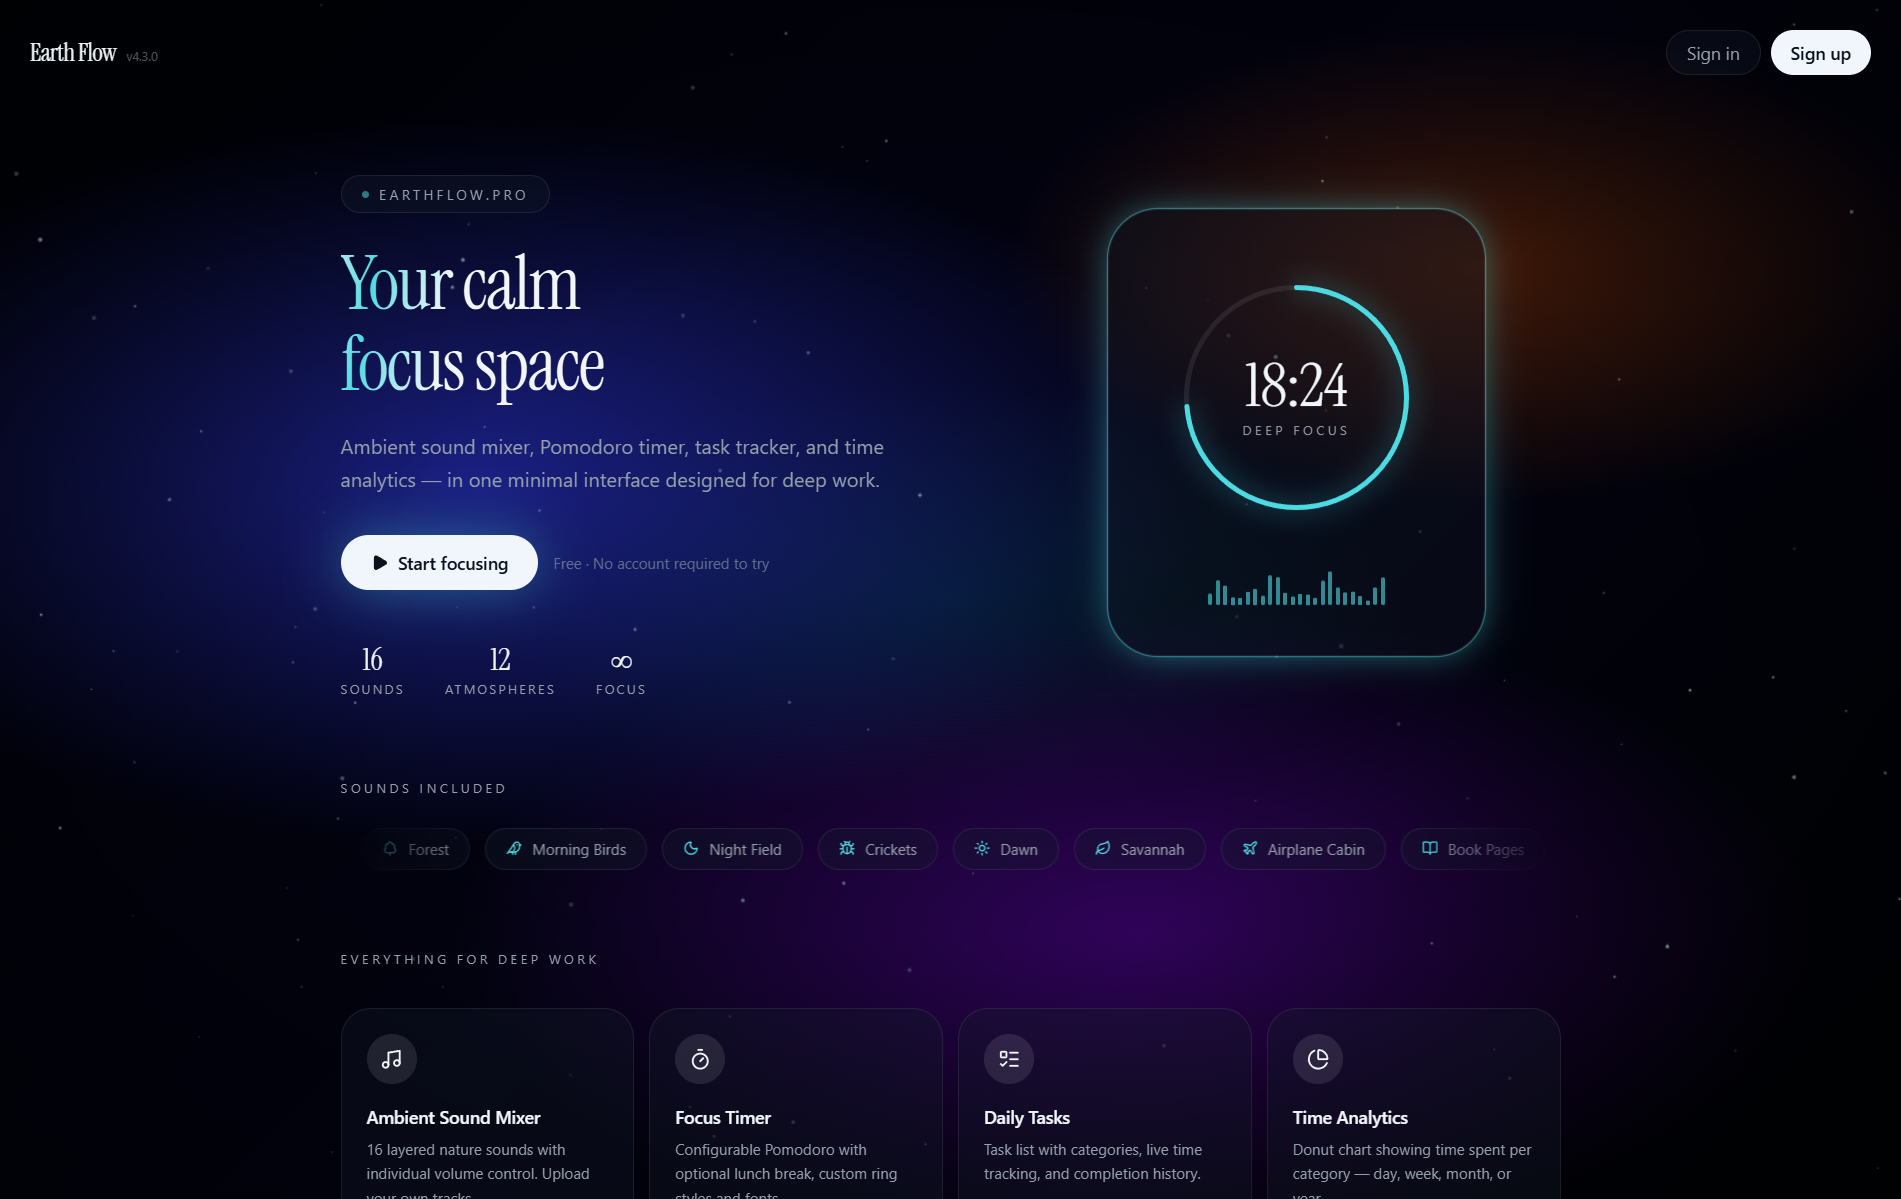
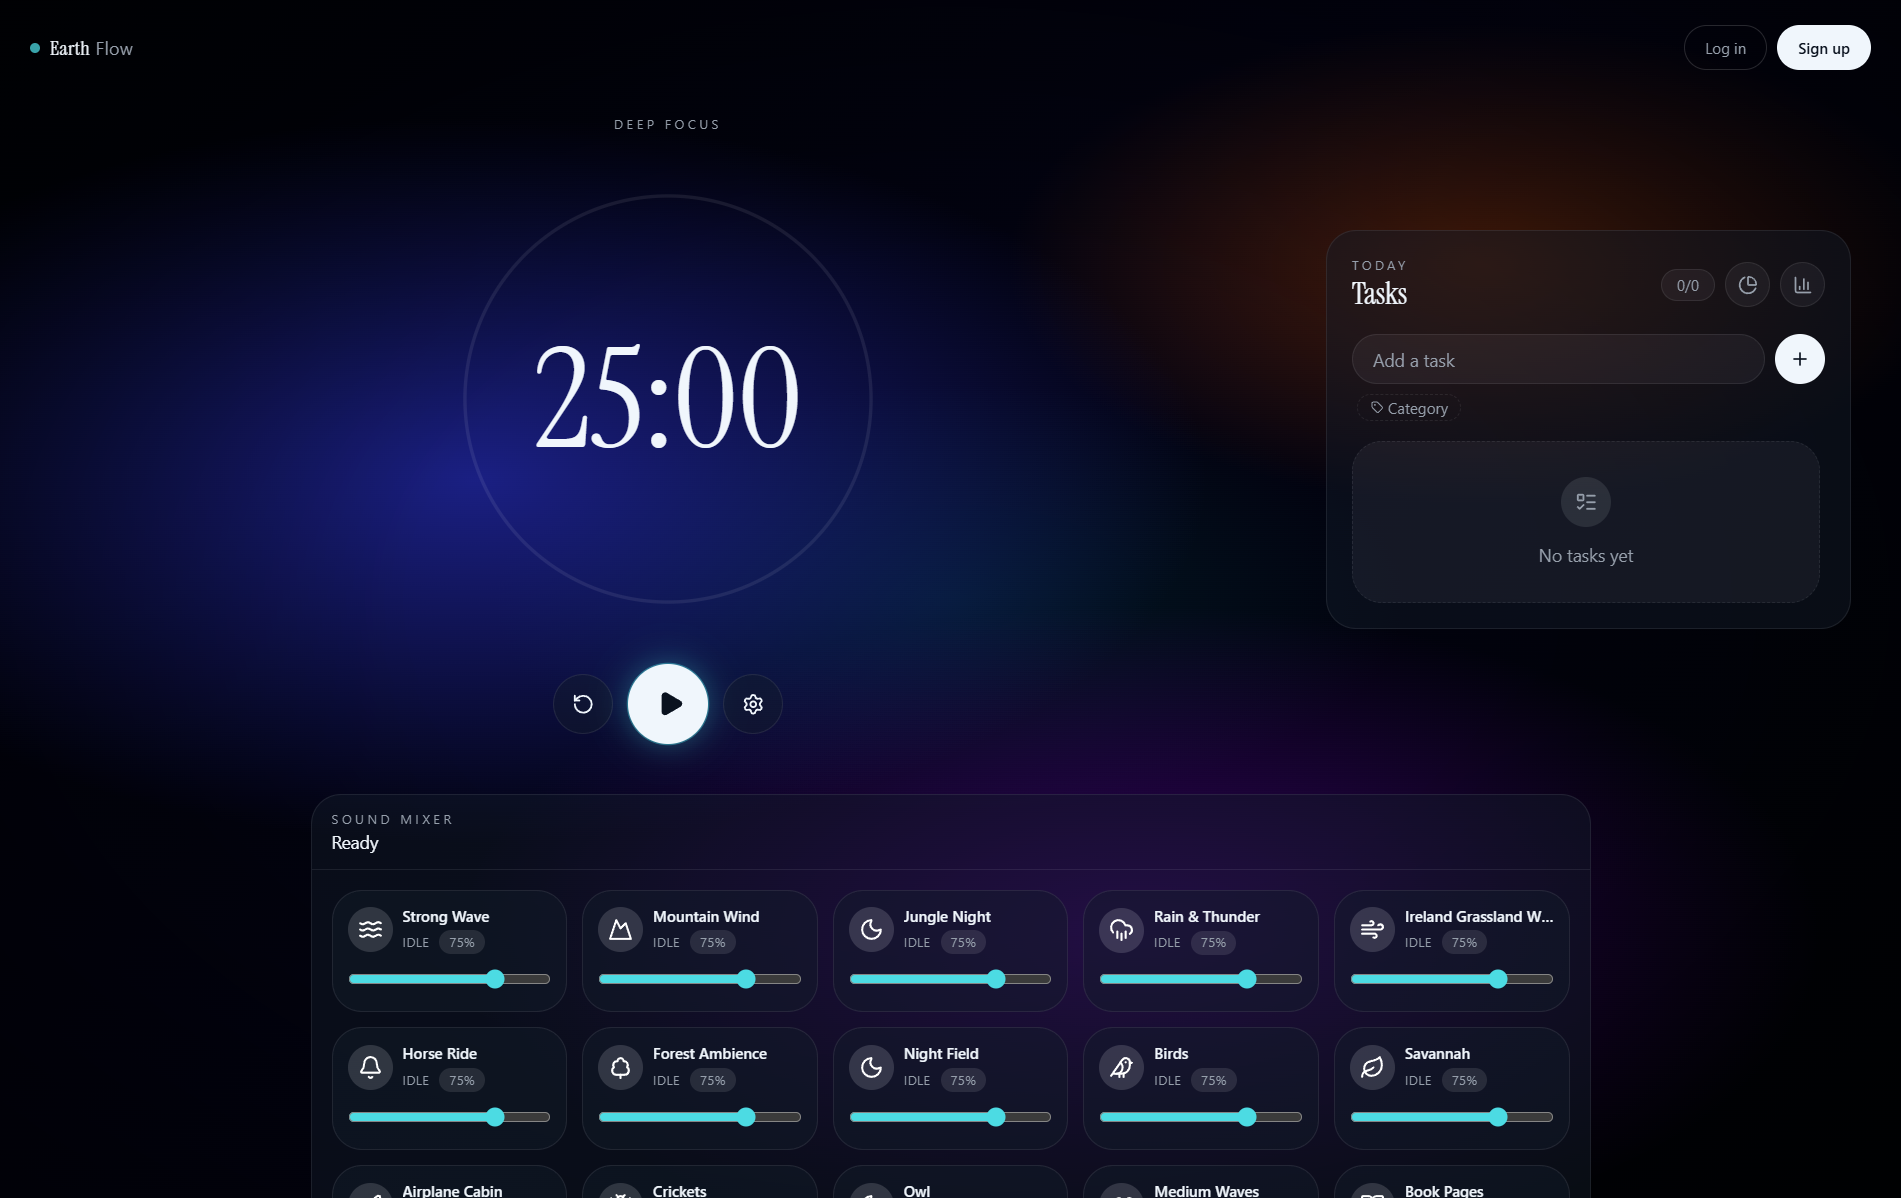
Release v5.2.2

diff --git a/scripts/generate-static-index.js b/scripts/generate-static-index.js
@@ -205,9 +205,9 @@ async function main() {
     <meta property="og:description" content="Ambient sounds &amp; focus timer for deep work." />
     <meta property="og:type" content="website" />
     <meta property="og:url" content="https://earthflow.pro" />
-    <meta property="og:image" content="https://earthflow.pro/og-image.png" />
+    <meta property="og:image" content="https://earthflow.pro/og-image.png?v=5.2.2" />
     <meta name="twitter:card" content="summary_large_image" />
-    <meta name="twitter:image" content="https://earthflow.pro/og-image.png" />
+    <meta name="twitter:image" content="https://earthflow.pro/og-image.png?v=5.2.2" />
     <link rel="icon" type="image/svg+xml" href="/favicon.svg" />
     ${styleFileName ? `<link rel="stylesheet" href="/assets/${styleFileName}" />` : ''}
   </head>

diff --git a/src/routes/__root.tsx b/src/routes/__root.tsx
@@ -81,10 +81,10 @@ export const Route = createRootRouteWithContext<{ queryClient: QueryClient }>()(
       { property: "og:title", content: "Earth Flow" },
       { property: "og:description", content: "Ambient sounds & focus timer" },
       { property: "og:type", content: "website" },
-      { property: "og:image", content: "https://earthflow.pro/og-image.png" },
+      { property: "og:image", content: "https://earthflow.pro/og-image.png?v=5.2.2" },
       { property: "og:url", content: "https://earthflow.pro" },
       { name: "twitter:card", content: "summary_large_image" },
-      { name: "twitter:image", content: "https://earthflow.pro/og-image.png" },
+      { name: "twitter:image", content: "https://earthflow.pro/og-image.png?v=5.2.2" },
     ],
     links: [
       {

diff --git a/src/lib/version.ts b/src/lib/version.ts
@@ -1,2 +1,2 @@
-export const APP_VERSION = "5.2.1";
+export const APP_VERSION = "5.2.2";
 export const APP_VERSION_LABEL = `v${APP_VERSION}`;

diff --git a/README.md b/README.md
@@ -13,7 +13,7 @@ A customizable focus workspace with ambient sound mixing, a Pomodoro timer,<br/>
 
 <br/>
 
-<img src="https://earthflow.pro/og-image.png" alt="Earth Flow preview" width="720" />
+<img src="https://earthflow.pro/og-image.png?v=5.2.2" alt="Earth Flow preview" width="720" />
 
 </div>
 
@@ -110,6 +110,10 @@ OG meta tags are injected at build time into the static HTML so social crawlers 
 ---
 
 ## 📋 Version History
+
+### v5.2.2 — Updated social preview
+- Replaced the Open Graph preview with the current Earth Flow workspace design
+- Versioned the Open Graph and Twitter image URLs to refresh cached link previews
 
 ### v5.2.1 — Profile palette fix
 - Fixed the Profile / Customize / Settings navigation so it follows the selected profile atmosphere instead of retaining the global blue palette
